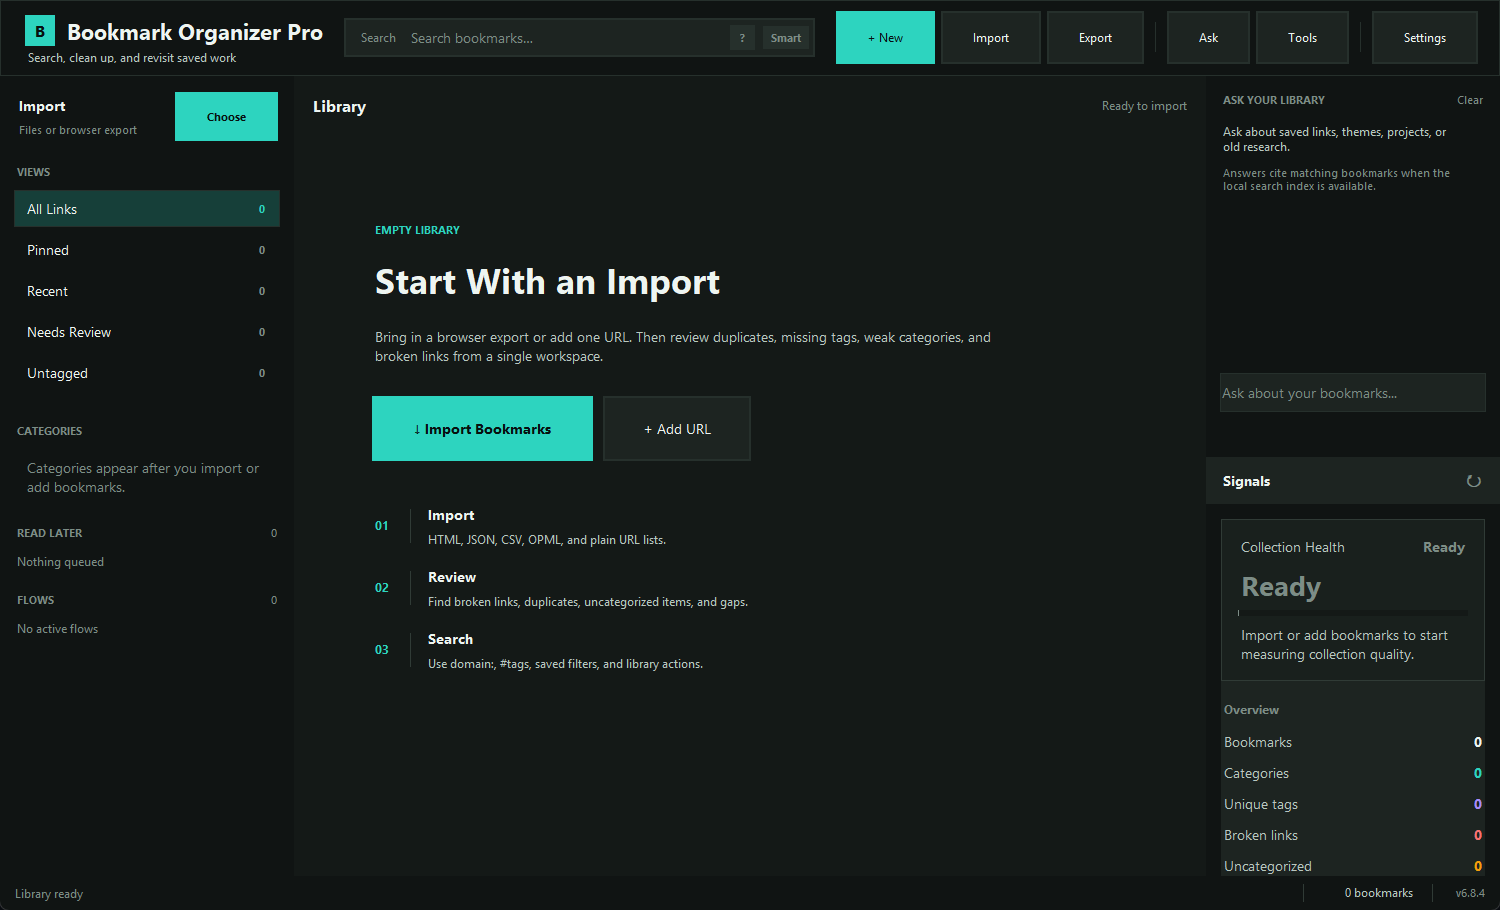
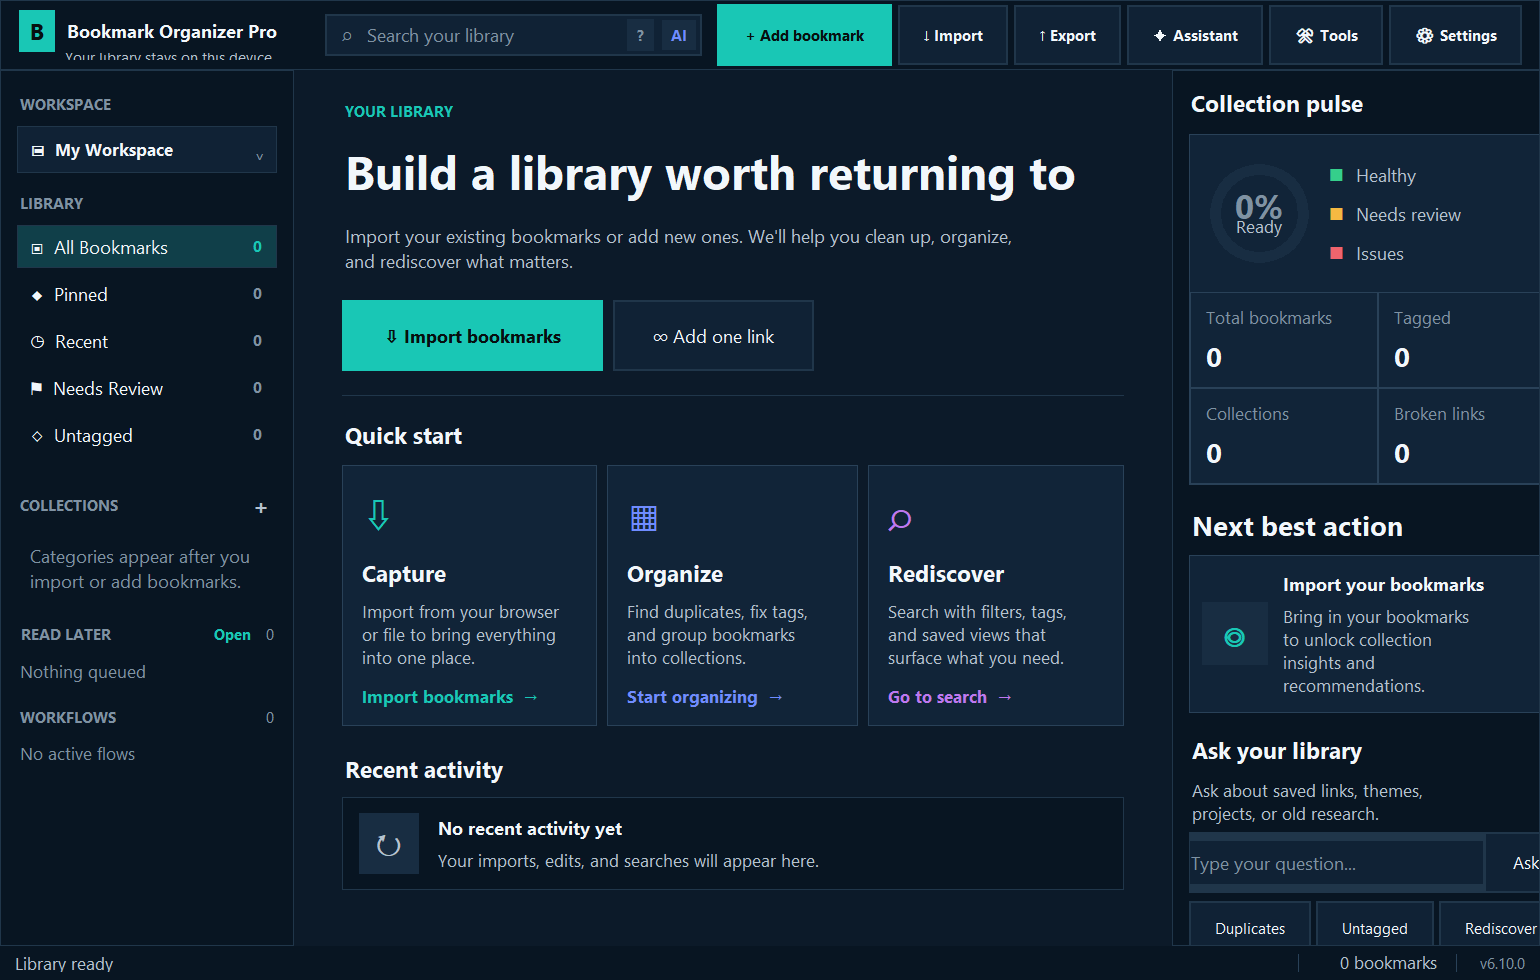
release: ship v6.10.0 premium workspace

diff --git a/tests/test_release_artifact_smoke.py b/tests/test_release_artifact_smoke.py
@@ -15,12 +15,12 @@ def test_release_artifact_smoke_accepts_expected_version(tmp_path: Path):
     artifact = _artifact(tmp_path)
 
     def runner(*args, **kwargs):
-        return subprocess.CompletedProcess(args[0], 0, stdout="Bookmark Organizer Pro v6.9.0\n", stderr="")
+        return subprocess.CompletedProcess(args[0], 0, stdout="Bookmark Organizer Pro v6.10.0\n", stderr="")
 
-    result = smoke.smoke_artifact(artifact, expected_version="6.9.0", runner=runner)
+    result = smoke.smoke_artifact(artifact, expected_version="6.10.0", runner=runner)
 
     assert result.returncode == 0
-    assert result.stdout == "Bookmark Organizer Pro v6.9.0"
+    assert result.stdout == "Bookmark Organizer Pro v6.10.0"
 
 
 def test_release_artifact_smoke_rejects_wrong_version(tmp_path: Path):
@@ -30,7 +30,7 @@ def test_release_artifact_smoke_rejects_wrong_version(tmp_path: Path):
         return subprocess.CompletedProcess(args[0], 0, stdout="Bookmark Organizer Pro v0.0.0\n", stderr="")
 
     try:
-        smoke.smoke_artifact(artifact, expected_version="6.9.0", runner=runner)
+        smoke.smoke_artifact(artifact, expected_version="6.10.0", runner=runner)
     except smoke.ReleaseArtifactSmokeError as exc:
         assert "unexpected version" in str(exc)
     else:

diff --git a/bookmark_organizer_pro/constants.py b/bookmark_organizer_pro/constants.py
@@ -6,7 +6,7 @@ from pathlib import Path
 
 # Application metadata
 APP_NAME = "Bookmark Organizer Pro"
-APP_VERSION = "6.9.0"
+APP_VERSION = "6.10.0"
 APP_SUBTITLE = "Ultimate Bookmark Management"
 
 # Paths

diff --git a/main.py b/main.py
@@ -20,7 +20,7 @@ import sys
 multiprocessing.freeze_support()
 
 BOOTSTRAP_APP_NAME = "Bookmark Organizer Pro"
-BOOTSTRAP_APP_VERSION = "6.9.0"
+BOOTSTRAP_APP_VERSION = "6.10.0"
 
 if __name__ == "__main__" and any(arg in {"--version", "-V"} for arg in sys.argv[1:]):
     stdout = getattr(sys, "stdout", None)

diff --git a/packaging/nuitka_smoke.py b/packaging/nuitka_smoke.py
@@ -5,7 +5,7 @@ from __future__ import annotations
 import sys
 
 APP_NAME = "Bookmark Organizer Pro"
-APP_VERSION = "6.9.0"
+APP_VERSION = "6.10.0"
 
 
 def main(argv: list[str] | None = None) -> int:

diff --git a/scripts/visual_regression_smoke.py b/scripts/visual_regression_smoke.py
@@ -693,7 +693,7 @@ def fulfill_api(route) -> None:
     elif "/bookmarks" in url:
         payload = {"bookmarks": sample_bookmarks}
     else:
-        payload = {"name": "Bookmark Organizer Pro", "version": "6.9.0"}
+        payload = {"name": "Bookmark Organizer Pro", "version": "6.10.0"}
     route.fulfill(status=200, content_type="application/json", body=json.dumps(payload))
 
 

diff --git a/CHANGELOG.md b/CHANGELOG.md
@@ -2,7 +2,9 @@
 
 All notable changes to Bookmark-Organizer-Pro will be documented in this file.
 
-## [Unreleased]
+## [v6.10.0] - 2026-07-09
+
+Premium workspace redesign and interaction-quality release.
 
 ### Changed
 

diff --git a/README.md b/README.md
@@ -3,7 +3,7 @@
 A powerful, professional-grade bookmark manager with AI-powered categorization, multi-theme support, advanced organization, **local semantic search**, **MCP server integration**, **single-file HTML snapshots**, **research-trail flows**, and **citation-aware AI summaries**.
 
 ![Python](https://img.shields.io/badge/Python-3.10+-3776AB.svg?logo=python&logoColor=white)
-![Version](https://img.shields.io/badge/Version-v6.9.0-2dd4bf.svg)
+![Version](https://img.shields.io/badge/Version-v6.10.0-2dd4bf.svg)
 ![Platform](https://img.shields.io/badge/Platform-Windows%20|%20macOS%20|%20Linux-green.svg)
 ![License](https://img.shields.io/badge/License-MIT-yellow.svg)
 ![MCP](https://img.shields.io/badge/MCP-server-7B68EE.svg)